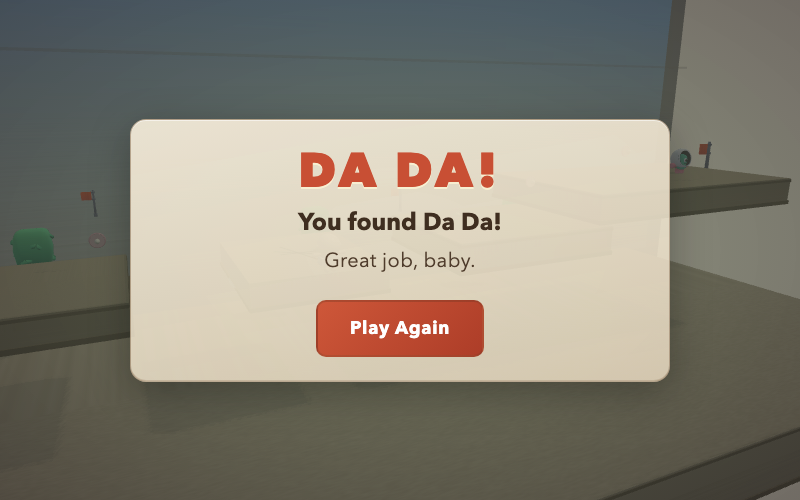
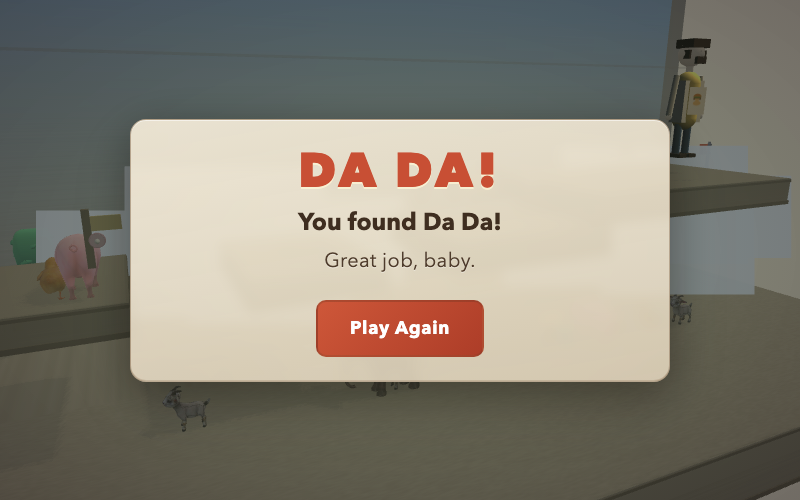
polish: improve feedback, UI readability, and character motion

diff --git a/src/web3d/world/characters.js b/src/web3d/world/characters.js
@@ -181,6 +181,7 @@ export function createDad(scene, {
   const shoeMat = makeFlatStandard(scene, `dad_${outfit}_shoes`, outfitSpec.shoes);
   const hairMat = makeFlatStandard(scene, `dad_${outfit}_hair`, outfitSpec.hair);
   const beardMat = makeFlatStandard(scene, `dad_${outfit}_beard`, outfitSpec.beard);
+  const armMeshes = [];
 
   const torso = BABYLON.MeshBuilder.CreateCapsule(`dad_${outfit}_torso`, {
     height: 1.55,
@@ -257,6 +258,7 @@ export function createDad(scene, {
     arm.rotation.z = side * 0.14;
     arm.parent = visualRoot;
     arm.material = jacketMat;
+    armMeshes.push({ mesh: arm, side });
 
     const hand = BABYLON.MeshBuilder.CreateSphere(`dad_${outfit}_hand${side}`, {
       diameter: 0.18,
@@ -341,8 +343,16 @@ export function createDad(scene, {
   if (animate) {
     scene.registerBeforeRender(() => {
       const t = performance.now() * 0.001;
-      visualRoot.rotation.z = Math.sin(t * 1.2) * 0.03;
+      const breathe = Math.sin(t * 1.18);
+      visualRoot.rotation.z = breathe * 0.028;
       visualRoot.rotation.y = Math.sin(t * 0.75) * 0.035;
+      visualRoot.position.y = breathe * 0.03;
+      visualRoot.scaling.y = 1 + (breathe * 0.012);
+      visualRoot.scaling.x = 1 - (breathe * 0.006);
+      visualRoot.scaling.z = 1 - (breathe * 0.006);
+      for (const { mesh, side } of armMeshes) {
+        mesh.rotation.z = (side * 0.14) + (Math.sin(t * 1.35 + (side * 0.8)) * 0.04);
+      }
     });
   }
 
@@ -355,6 +365,7 @@ export function createMom(scene, {
   z = 0,
   pose = 'standing',
   shadowGen = null,
+  animate = true,
 } = {}) {
   const root = new BABYLON.TransformNode(`mom_${pose}`, scene);
   root.position.set(x, y, z);
@@ -366,6 +377,7 @@ export function createMom(scene, {
   const pantsMat = makeFlatStandard(scene, 'mom_pants', '#556173');
   const hairMat = makeFlatStandard(scene, 'mom_hair', '#5d3f2f');
   const shoeMat = makeFlatStandard(scene, 'mom_shoes', '#d8d3ca');
+  const armMeshes = [];
 
   const torso = BABYLON.MeshBuilder.CreateCapsule('mom_torso', {
     height: 1.28,
@@ -420,6 +432,7 @@ export function createMom(scene, {
     }, scene);
     arm.parent = visualRoot;
     arm.material = hoodieMat;
+    armMeshes.push({ mesh: arm, side });
 
     const hand = BABYLON.MeshBuilder.CreateSphere(`mom_hand${side}`, {
       diameter: 0.16,
@@ -506,6 +519,21 @@ export function createMom(scene, {
     for (const mesh of root.getChildMeshes(false)) {
       shadowGen.addShadowCaster(mesh);
     }
+  }
+  if (animate) {
+    scene.registerBeforeRender(() => {
+      const t = performance.now() * 0.001;
+      const breathe = Math.sin(t * 1.06);
+      visualRoot.position.y = breathe * (pose === 'sitting' ? 0.02 : 0.03);
+      visualRoot.rotation.z = breathe * (pose === 'sitting' ? 0.018 : 0.024);
+      visualRoot.scaling.y = 1 + (breathe * 0.01);
+      visualRoot.scaling.x = 1 - (breathe * 0.005);
+      visualRoot.scaling.z = 1 - (breathe * 0.005);
+      for (const { mesh, side } of armMeshes) {
+        const baseRot = pose === 'sitting' ? side * 0.22 : side * 0.1;
+        mesh.rotation.z = baseRot + (Math.sin(t * 1.24 + (side * 0.6)) * (pose === 'sitting' ? 0.02 : 0.035));
+      }
+    });
   }
   return { root };
 }

diff --git a/src/web3d/ui/ui.js b/src/web3d/ui/ui.js
@@ -30,8 +30,10 @@ const CSS = `
     linear-gradient(170deg, rgba(249, 240, 221, 0.90), rgba(232, 218, 193, 0.84));
   box-shadow:
     0 10px 40px rgba(0, 0, 0, 0.30),
+    0 24px 70px rgba(38, 24, 12, 0.16),
     inset 0 1px 0 rgba(255, 255, 255, 0.55),
     inset 0 -1px 0 rgba(130, 102, 72, 0.22);
+  backdrop-filter: blur(6px);
   color: #3a2c1f;
   pointer-events: auto;
 }
@@ -49,6 +51,7 @@ const CSS = `
   color: #4f3c2c;
   margin: 8px 0 2px;
   letter-spacing: 0.02em;
+  text-shadow: 0 1px 0 rgba(255, 255, 255, 0.35);
 }
 .dada-hint {
   font-size: clamp(12px, 1.8vw, 16px);
@@ -158,6 +161,7 @@ const CSS = `
   border: 1px solid rgba(255, 235, 202, 0.36);
   border-radius: 8px;
   padding: 5px 10px;
+  box-shadow: 0 8px 18px rgba(0, 0, 0, 0.18);
   opacity: 0;
   transform: translateY(-4px);
   transition: opacity 0.2s ease, transform 0.2s ease;
@@ -189,6 +193,9 @@ const CSS = `
   pointer-events: none;
   color: #fef7e7;
   position: absolute;
+  box-shadow: 0 6px 14px rgba(0, 0, 0, 0.14);
+  text-shadow: 0 1px 0 rgba(0, 0, 0, 0.28);
+  backdrop-filter: blur(4px);
 }
 
 /* Coin counter — top-left */
@@ -268,6 +275,7 @@ const CSS = `
   border: 1px solid rgba(255, 220, 170, 0.20);
   border-radius: 6px;
   padding: 4px 14px;
+  box-shadow: 0 8px 18px rgba(0, 0, 0, 0.14);
   pointer-events: none;
   white-space: nowrap;
   opacity: 1;
@@ -305,6 +313,7 @@ const CSS = `
   border-radius: 10px;
   border: 1px solid rgba(255, 255, 255, 0.36);
   box-shadow: 0 8px 18px rgba(0, 0, 0, 0.28);
+  backdrop-filter: blur(5px);
   color: #fff;
   font-family: 'Avenir Next', 'Trebuchet MS', 'Segoe UI', sans-serif;
   letter-spacing: 0.03em;
@@ -339,7 +348,7 @@ const CSS = `
   padding: 22px 44px 18px;
   text-align: center;
   pointer-events: none;
-  box-shadow: 0 14px 52px rgba(0,0,0,0.44), inset 0 1px 0 rgba(255,255,255,0.22);
+  box-shadow: 0 14px 52px rgba(0,0,0,0.44), 0 28px 72px rgba(14, 48, 126, 0.18), inset 0 1px 0 rgba(255,255,255,0.22);
   opacity: 0;
   z-index: 2100;
   font-family: 'Avenir Next', 'Trebuchet MS', 'Segoe UI', sans-serif;

diff --git a/src/web3d/util/juiceFx.js b/src/web3d/util/juiceFx.js
@@ -152,16 +152,22 @@ export class JuiceFx {
 
   spawnCoinSparkle(pos) {
     if (!this.enabled) return;
-    for (let i = 0; i < 4; i++) {
-      const angle = (i / 4) * Math.PI * 2;
+    for (let i = 0; i < 6; i++) {
+      const angle = (i / 6) * Math.PI * 2;
       this._spawn(this.sparkleMat, 'coinSpark', pos.x + Math.cos(angle) * 0.18, pos.y + Math.sin(angle) * 0.18, pos.z, {
-        life: 0.28,
-        startScale: 0.10,
-        endScale: 0.32,
-        vx: Math.cos(angle) * 0.8,
-        vy: Math.sin(angle) * 0.8 + 0.3,
+        life: 0.32,
+        startScale: i === 0 ? 0.14 : 0.10,
+        endScale: i === 0 ? 0.42 : 0.34,
+        vx: Math.cos(angle) * 0.95,
+        vy: Math.sin(angle) * 0.72 + 0.34,
       });
     }
+    this._spawn(this.sparkleMat, 'coinSparkCenter', pos.x, pos.y + 0.02, pos.z - 0.02, {
+      life: 0.24,
+      startScale: 0.12,
+      endScale: 0.28,
+      vy: 0.18,
+    });
   }
 
   spawnPickupSparkle(pos) {
@@ -176,6 +182,12 @@ export class JuiceFx {
         vy: 0.18 + i * 0.03,
       });
     }
+    this._spawn(this.sparkleMat, 'pickupSparkleCore', pos.x, pos.y + 0.18, pos.z - 0.02, {
+      life: 0.46,
+      startScale: 0.18,
+      endScale: 0.52,
+      vy: 0.12,
+    });
   }
 
   spawnGoalSparkles(pos) {
@@ -187,6 +199,14 @@ export class JuiceFx {
         startScale: i === 0 ? 0.18 : 0.13,
         endScale: i === 0 ? 0.58 : 0.46,
         vy: 0.10 + i * 0.02,
+      });
+    }
+    for (const offset of [[0.18, 0.68], [-0.18, 0.68], [0, 0.84]]) {
+      this._spawn(this.sparkleMat, 'goalSparkleInner', pos.x + offset[0], pos.y + offset[1], pos.z - 0.08, {
+        life: 0.44,
+        startScale: 0.14,
+        endScale: 0.36,
+        vy: 0.16,
       });
     }
   }

diff --git a/src/web3d/util/audio.js b/src/web3d/util/audio.js
@@ -189,6 +189,7 @@ export class GameAudio {
     try {
       this.unlock();
       if (!this.ctx) return false;
+      this._duckMusicForCue(levelId, cueName);
       const beatSec = 60 / spec.tempo;
       const startBase = this.ctx.currentTime + 0.02;
       for (const event of events) {
@@ -273,10 +274,29 @@ export class GameAudio {
   }
 
   _getMusicTargetGain(levelId) {
-    if (levelId === 1) return 0.74;
-    if (levelId === 2) return 0.62;
-    if (levelId === 3) return 0.68;
+    if (levelId === 1) return 0.68;
+    if (levelId === 2) return 0.56;
+    if (levelId === 3) return 0.62;
     return 0.7;
+  }
+
+  _duckMusicForCue(levelId, cueName) {
+    if (!this.ctx || !this.musicGain || !this._musicRunning || this._musicLevelId !== levelId) return;
+    const t = this.ctx.currentTime;
+    const baseGain = this._getMusicTargetGain(levelId);
+    let duckTo = baseGain * 0.82;
+    let release = 0.28;
+    if (cueName === 'levelComplete') {
+      duckTo = baseGain * 0.68;
+      release = 0.55;
+    } else if (cueName === 'collision') {
+      duckTo = baseGain * 0.74;
+      release = 0.38;
+    }
+    this.musicGain.gain.cancelScheduledValues(t);
+    this.musicGain.gain.setValueAtTime(this.musicGain.gain.value, t);
+    this.musicGain.gain.linearRampToValueAtTime(duckTo, t + 0.04);
+    this.musicGain.gain.linearRampToValueAtTime(baseGain, t + release);
   }
 
   _roleDuration(spec, role) {
